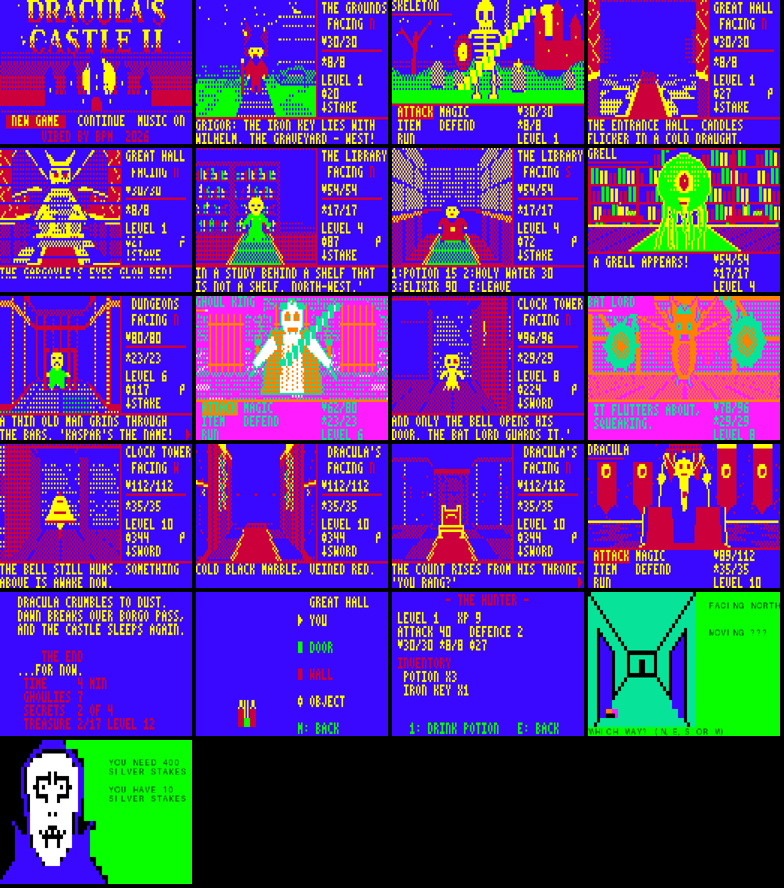
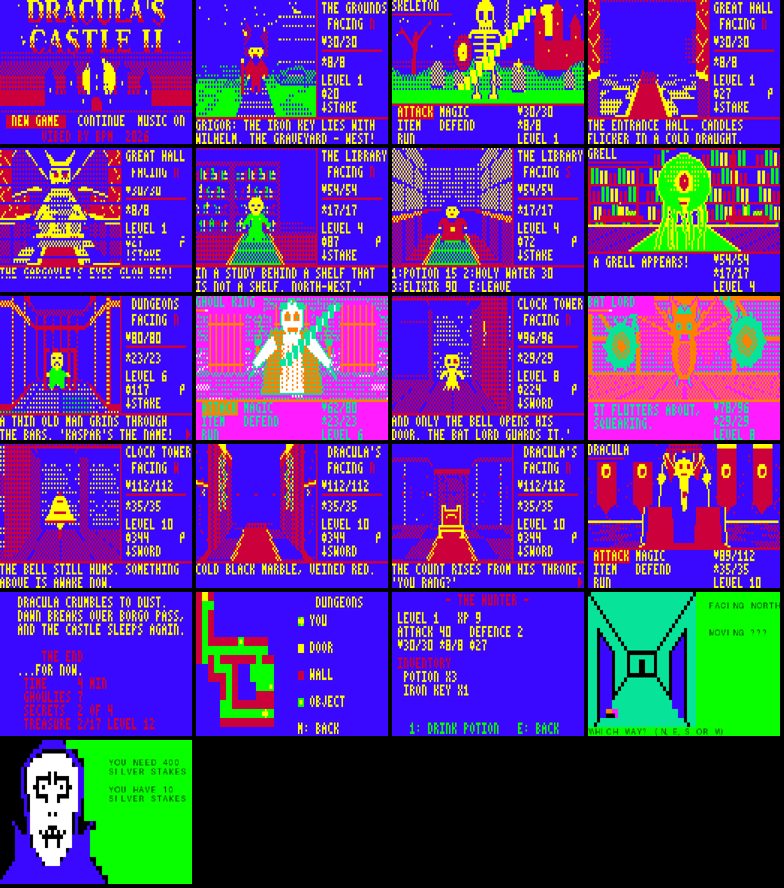
DraculasCastle2 v1.0.1 release: blurb notes hardware playtesting, new automap screenshot, release README
Claude-Session: https://claude.ai/code/session_01NPZwRESmqCZszgKR9L4guH

Changed region(s): [[0.2449, 0.6689, 0.4592, 0.8514]]

diff --git a/DraculasCastle2/screenshots/BLURB.md b/DraculasCastle2/screenshots/BLURB.md
@@ -1,5 +1,7 @@
 # DRACULA'S CASTLE II — THE CASTLE AWAKENS
-*ViBED by BPM · 2026 · for the Dick Smith VZ300*
+*ViBED by BPM · 2026 · for the Dick Smith VZ300 · v1.0.1*
+
+**Playtested on real hardware:** a Dick Smith VZ300 with the BennVenn SD loader and 128K expansion.
 
 In 1984 you walked into Dracula's Castle with ten silver stakes, stumbled through five vaults of
 a crude BASIC maze, and died. Forty-odd years on, the castle has woken again.
@@ -28,7 +30,7 @@ maze and all, for a faithful (and fatal) trip down memory lane.
   weapons and holy water hurt the undead more
 - 16 experience levels, 11 item types, 2 merchants, 6 save points (stone angels), 4 secret
   passages, 17 treasure chests, NPCs with multi-page dialogue
-- Automap, status/inventory screen, save & continue
+- Automap tuned for a real CRT (solid colour tiles and a yellow arrow showing which way you face), status/inventory screen, save & continue
 - Title screen with lightning and thunder, an attract mode with story pages, a location tour
   and the "Groovy Ghoulies" monster gallery
 - 14 pieces of three-voice music plus 22 sound effects; N toggles the music anywhere
@@ -41,7 +43,7 @@ maze and all, for a faithful (and fatal) trip down memory lane.
 | Required | BennVenn SD loader with 128K RAM expansion |
 | Display | Mode 1, 128 × 64, 4 colours. Both colour sets are used, and the CSS set switches for boss fights and effects. Mode 0 text for the 1984 easter egg |
 | Code | 100% hand-written Z80 assembly, about 7,000 lines, built with custom Python tools (assembler, art generators, map compiler and LZ compressor) |
-| Program | DRACULA2.VZ: 16.9 KB, loads at $8000 |
+| Program | DRACULA2.VZ: 17.0 KB, loads at $8000 |
 | Data | 38 .DAT files (about 113 KB) loaded from the SD card on demand through the BennVenn DOS, the same way 13 Ghosts does |
 | Memory | Area walls and battle backdrops sit in SRAM bank 3. Decorations, monster frames and each area's pack (map, events, texts, song) sit in upper RAM. The DOS workspace and BASIC system area are never touched |
 | Renderer | First-person view built from pre-rendered, byte-aligned wall faces and masked side sprites, with occlusion culling, distance fog via dithered colour ramps, and mirrored right-hand walls |
@@ -50,6 +52,8 @@ maze and all, for a faithful (and fatal) trip down memory lane.
 | Compression | LZ-style with optimal parsing; maps and assets decompressed on the fly |
 | Controls | Keyboard (W A S D or I J K L to move, SPACE or RETURN to act) or joystick |
 | Saves | Checksummed save slot in expansion SRAM |
+| Testing | Developed in a custom headless VZ300 emulator with scripted playthroughs from start to THE END, then playtested on a real VZ300 with a BennVenn SD + 128K. Fixes from the hardware testing: SD file loading, a quieter speaker mix, the music toggle, battle sprites and a clearer automap |
+| Version | 1.0.1 (November 2026) |
 
 *Requires a VZ300 with the BennVenn SD loader and 128K expansion. Copy DRACULA2.VZ
 and all DC2\*.DAT files to the root of the SD card and run DRACULA2.VZ.*
